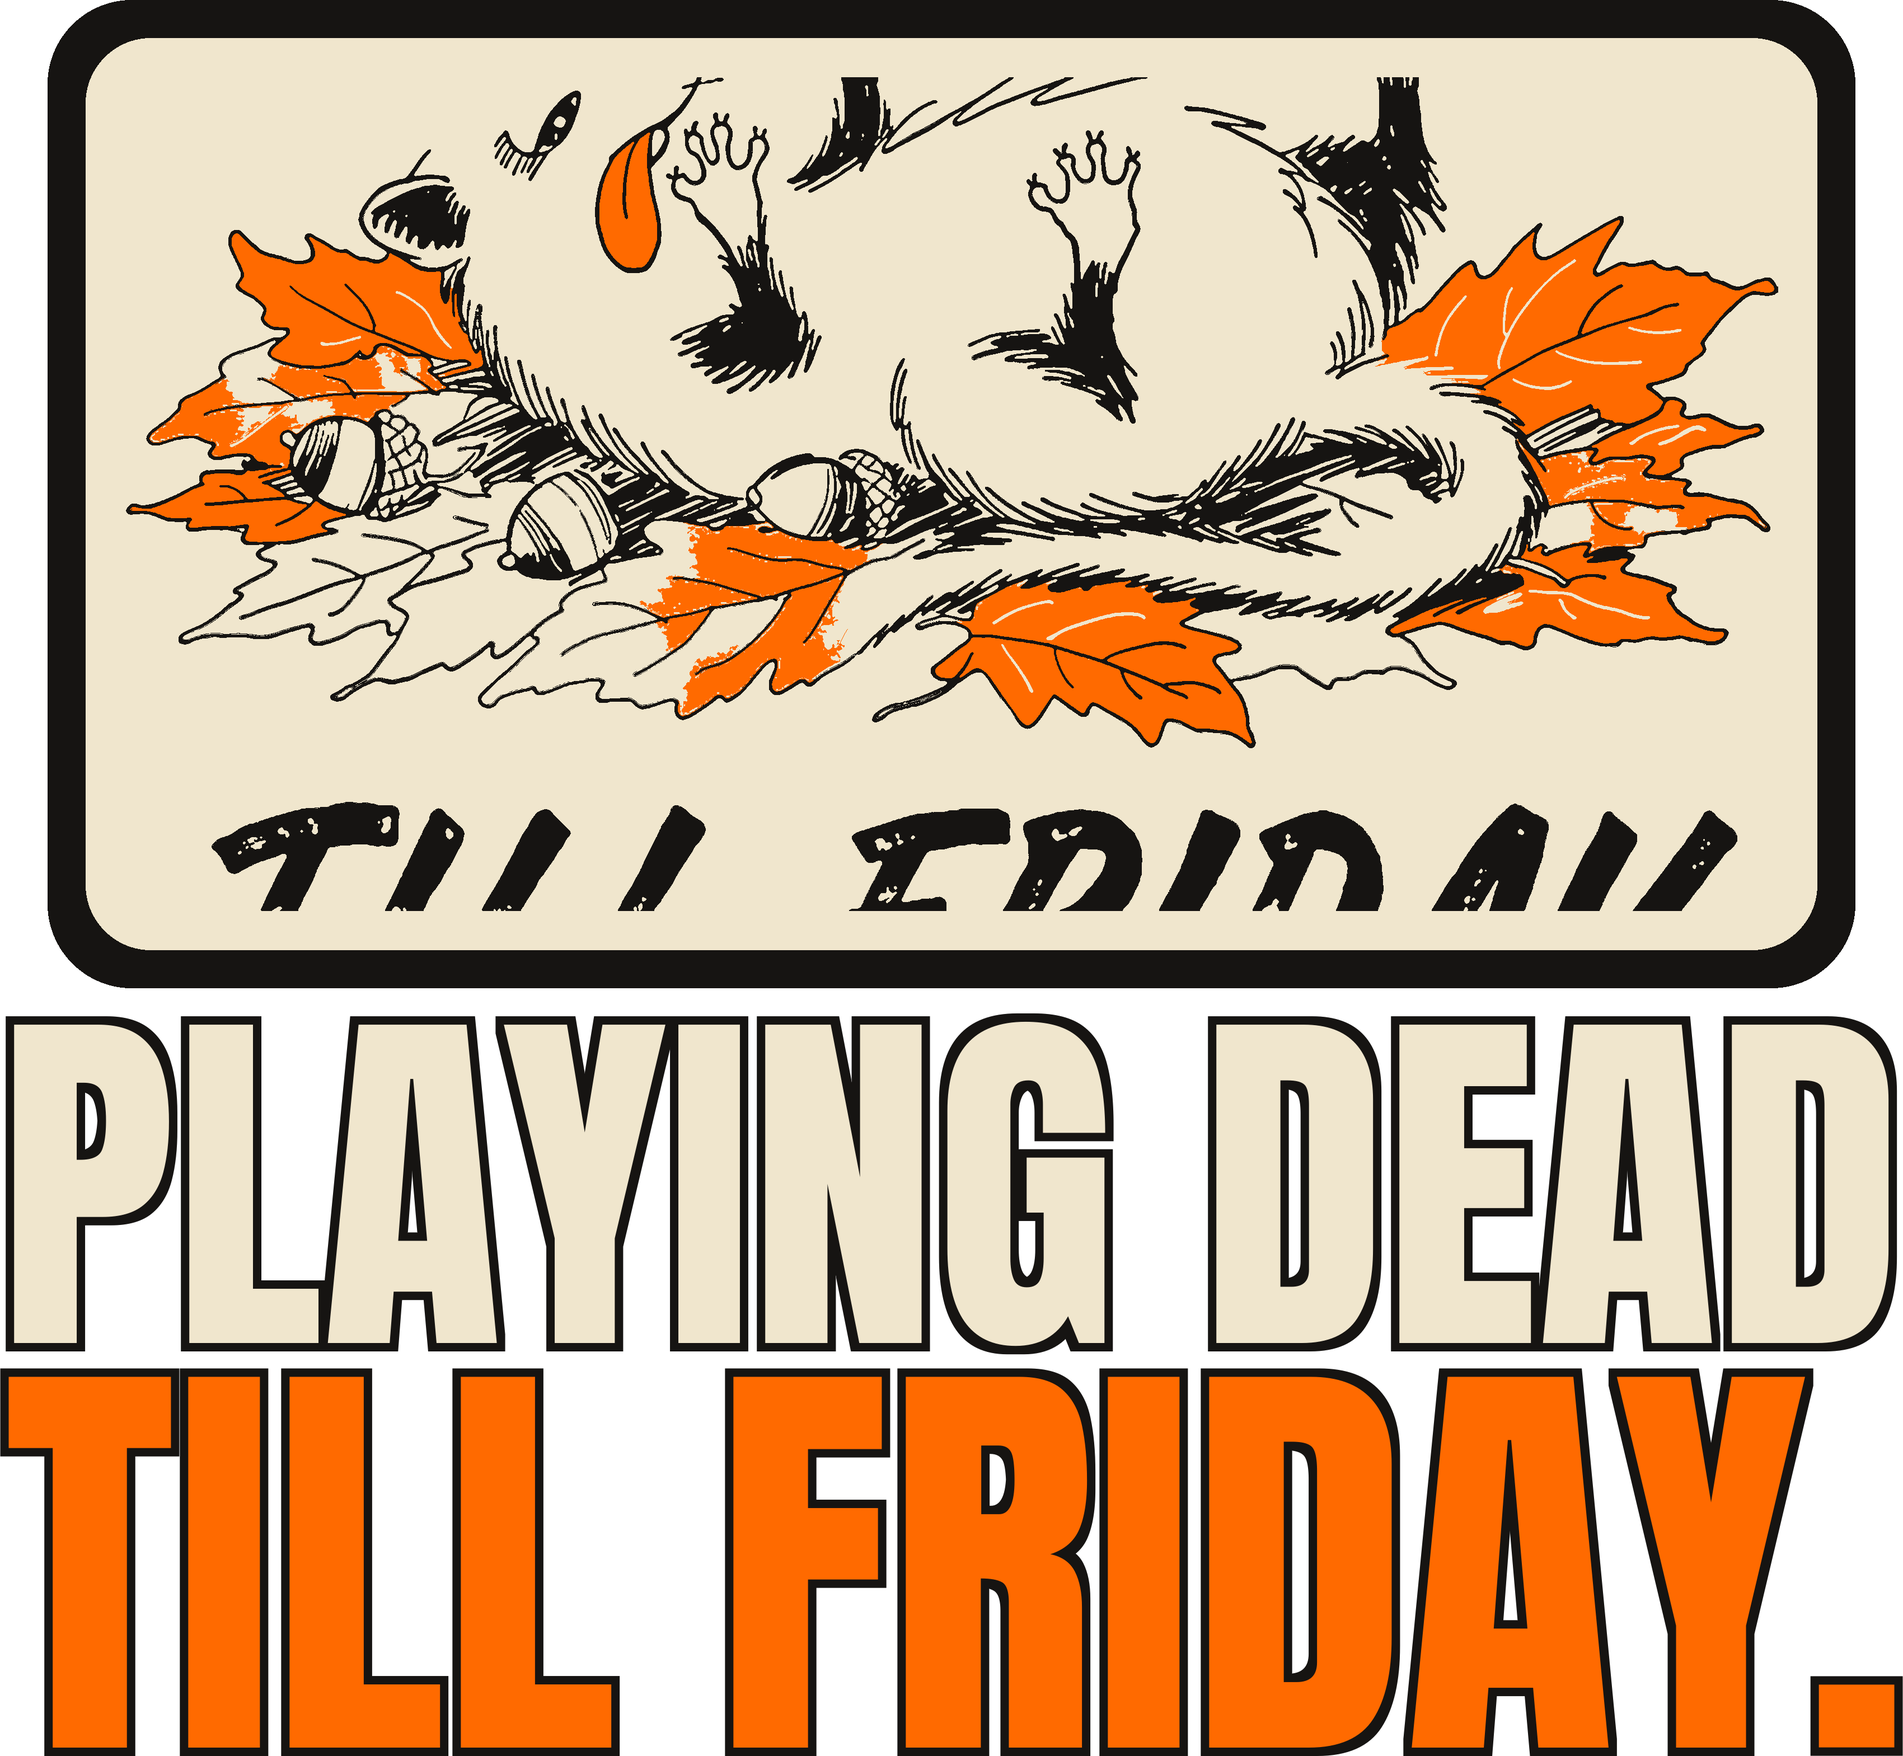
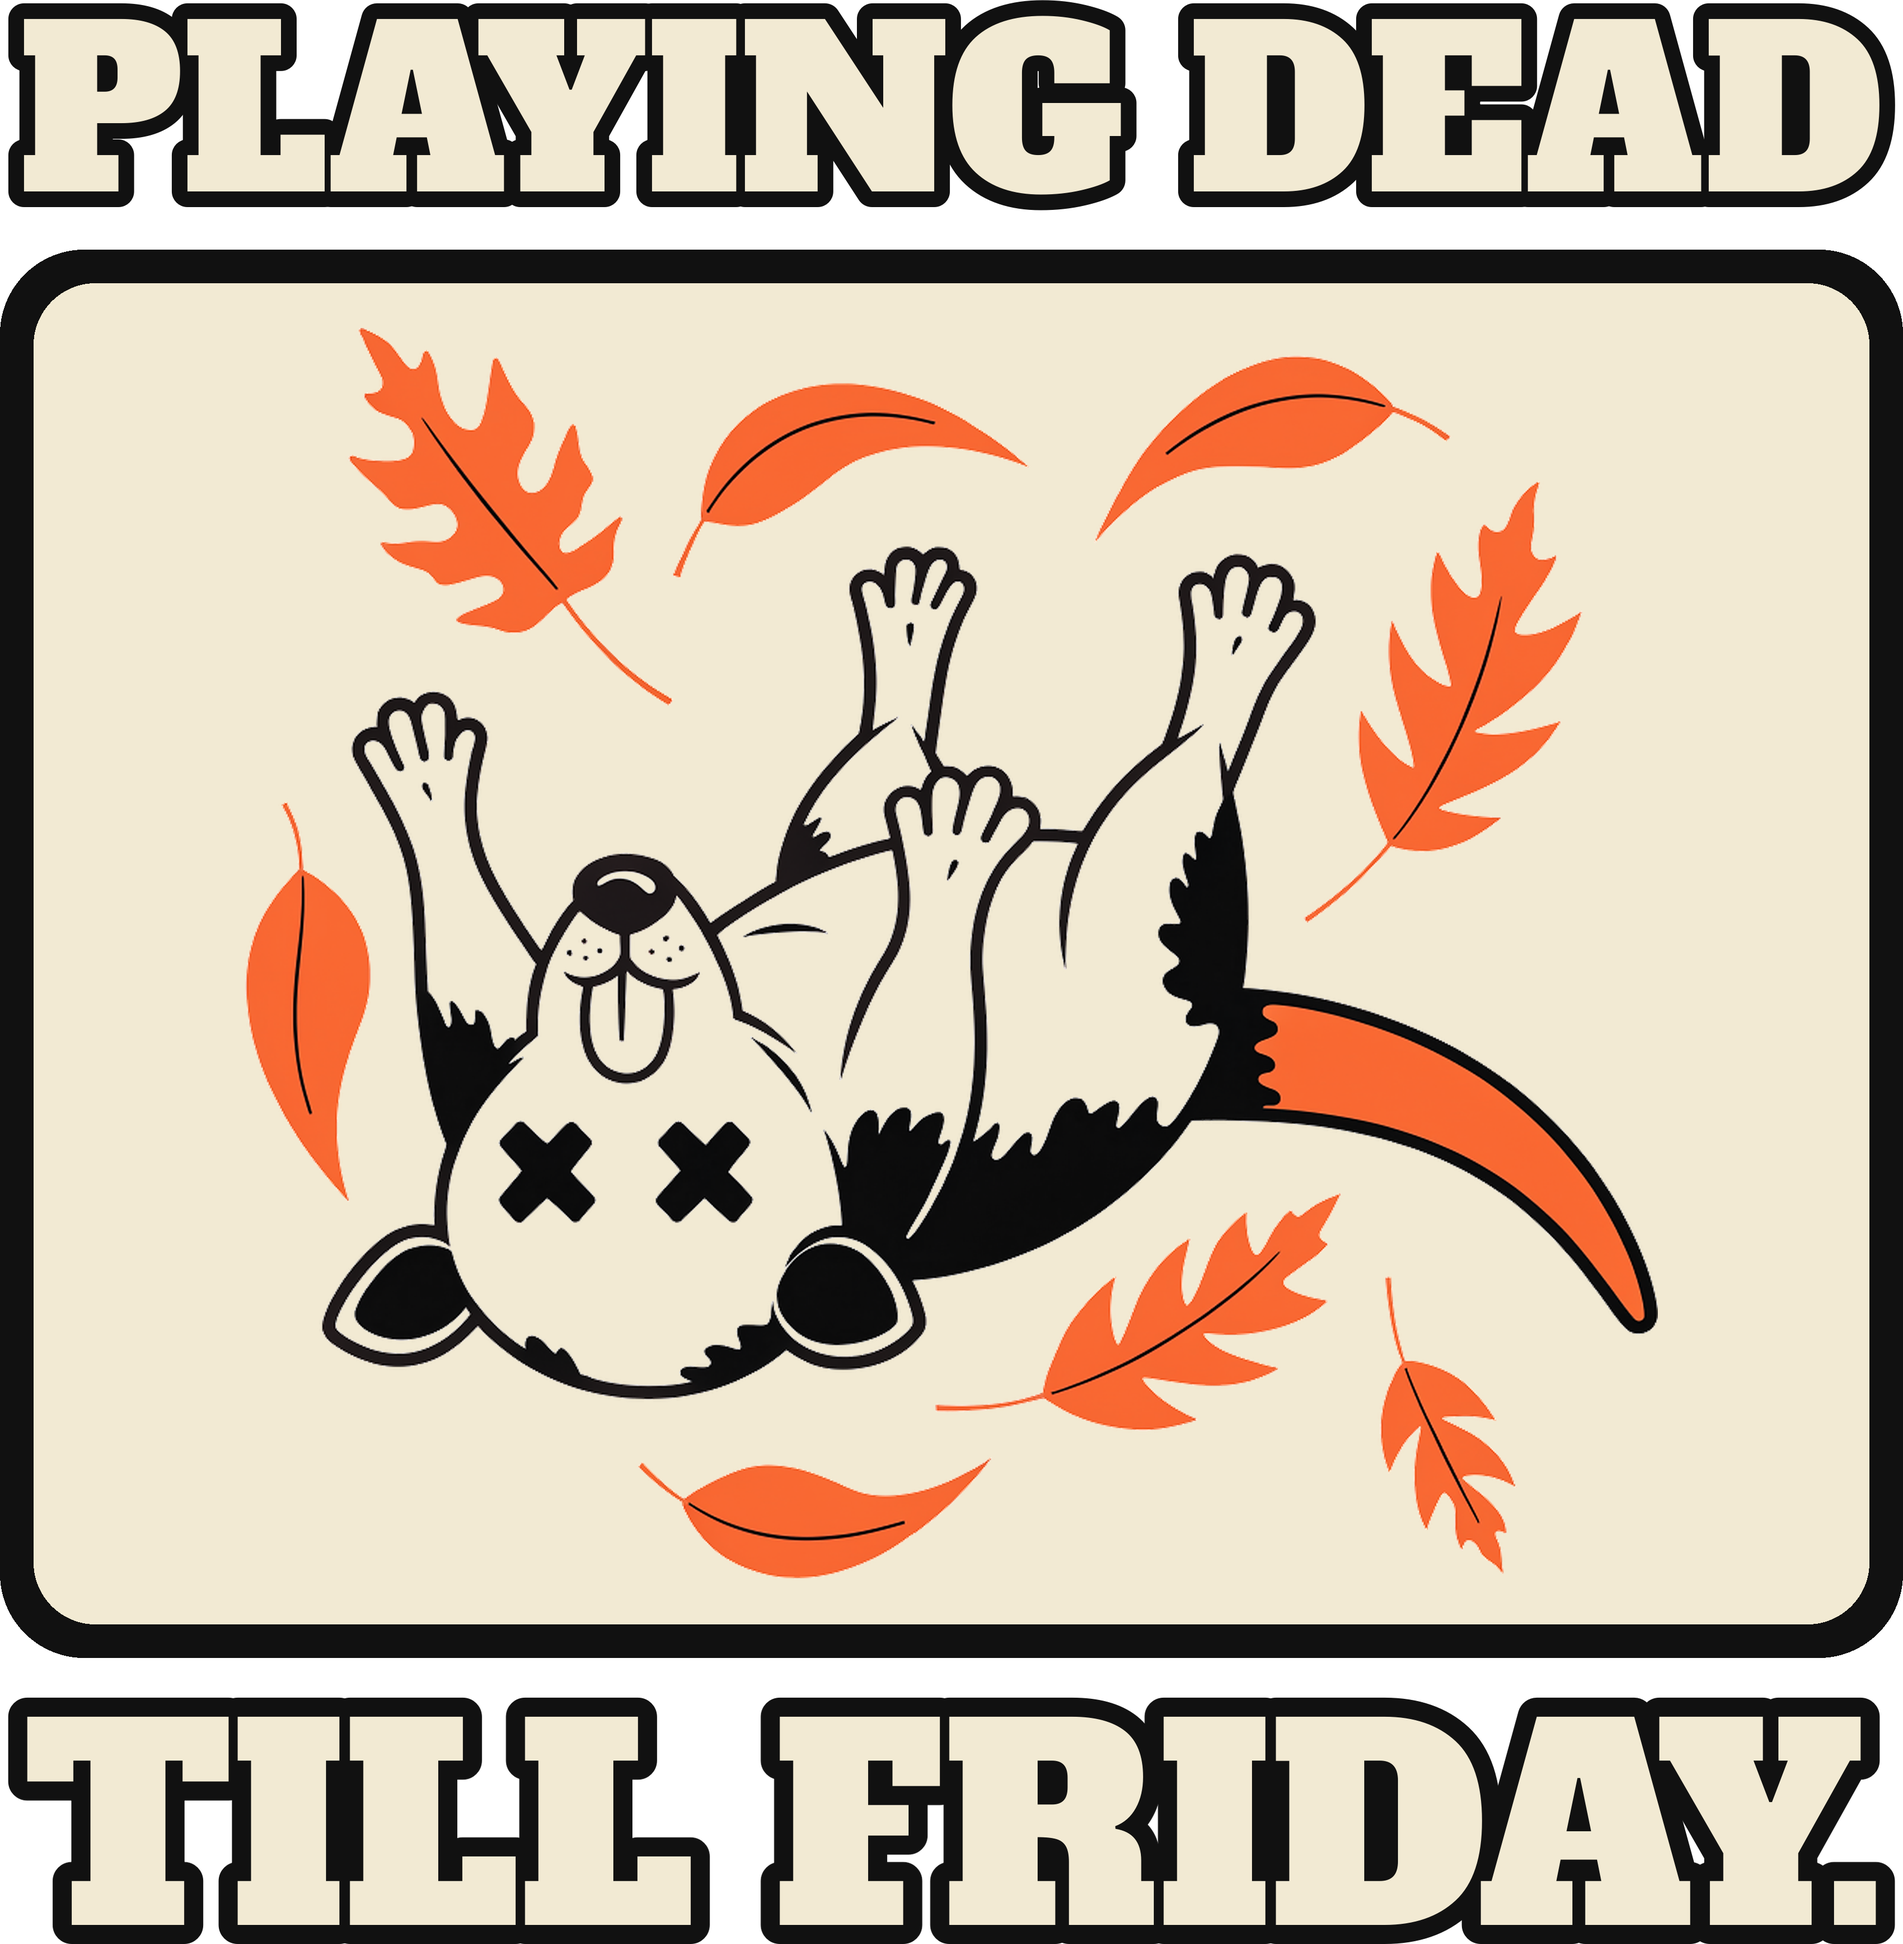
[B] review 881 Possum Playing Dead camo hoodie

diff --git a/docs/pipeline/881-camo-redo-possum-playing-dead.md b/docs/pipeline/881-camo-redo-possum-playing-dead.md
@@ -1,4 +1,4 @@
-status: READY
+status: REVIEW
 lane: B
 type: redo
 id: 881
@@ -22,3 +22,4 @@ push: camo
 ## Log
 - 2026-10-21 09:45 UTC director: brief written, READY (camo redo, lane B, push: camo; graded from docs/review/304.jpg).
 - 2026-10-21 10:45 UTC [B]: NOT BUILT, blocked: the arched PLAYING DEAD lettering ends on the possum's head and paws, so cropping it cuts the subject; needs the Recraft flat redraw and the fal wallet is exhausted. Stays READY for the first run after a top-up.
+- 2026-10-21 14:13 UTC [B]: BUILT IN PLACE (one Recraft flat call, $0.04, first try; the old arched lettering overlapped the possum so it was redrawn). Art: possum flat on its back, paws stiff, tongue out, X eyes, blaze-orange tail and leaves, 3 inks, on ONE bone patch with ~0.2 in black outline (b-camo-lockup.py --top, PHR 0.74). Lettering PLAYING DEAD above, TILL FRIDAY. below, Alfa Slab bone with dark keyline; widths (7h) 3372 / 3372 px = 100%. Subject 2524 of 3400 px = 74% (7l); canvas 3400x3473. FW 1500 TOP 0. R7.7: 14/14 on 1091146594, back logo 1080398177 on 14/14 (Forest Camo + Darkwood Tree Camo x XS-3XL). Mockups remade and replaced in place, phone-size read OK (the words and the X-eyed possum read on Darkwood). Copy rewritten (no cream backing, no chocolate-brown or acorn lines), SEO meta updated, Dec 8 gift line; title unchanged (same line). Handle added to retired-covers.json. Cohesion audit --handle PASS (0 warn). docs/review/881.jpg shows Forest, Darkwood, back.

diff --git a/docs/intake-log.md b/docs/intake-log.md
@@ -1,4 +1,5 @@
 RUNNING helper since 2026-10-21 13:50 UTC
+2026-10-21 14:13 UTC — [B] REVIEW #881 Unisex Possum Playing Dead Till Friday Camo Hoodie (redo in place, flat possum on bone patch, 14/14 on 1091146594, punch 100%, subject 74%). fal $0.04.
 2026-10-21 14:08 UTC — [B] REVIEW #876 Women's Western Kick Up Dust. Settle Nothing. Camo Hoodie (redo in place, boots + dust cloud on bone patch, 14/14 on 1091144055, punch 100%, subject 74%). fal $0.04.
 2026-10-21 14:03 UTC — [B] REVIEW #880 Men's Hunting Not Lost. Scouting. Camo Hoodie (REDO 2: Sandstone light-ink file, 7 on 1091025440 + 7 on 1091137067, punch 125%). fal $0.
 RUNNING lane E since 2026-10-21 13:48 UTC
